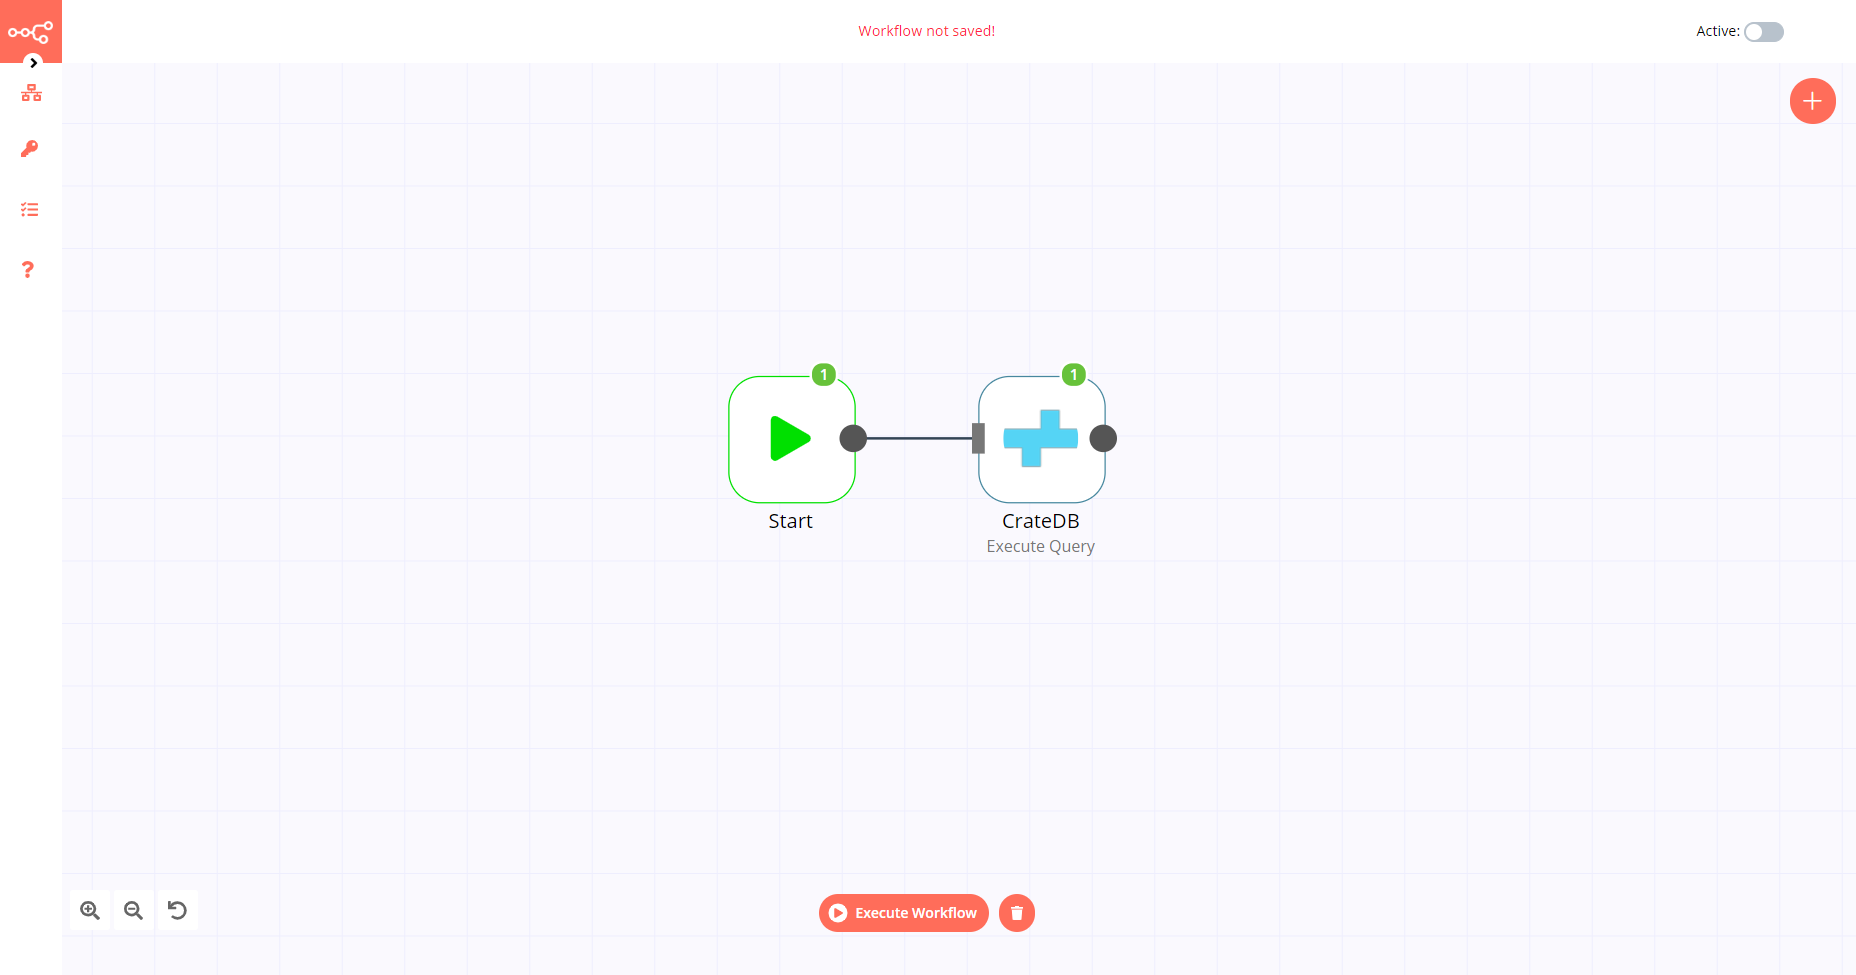
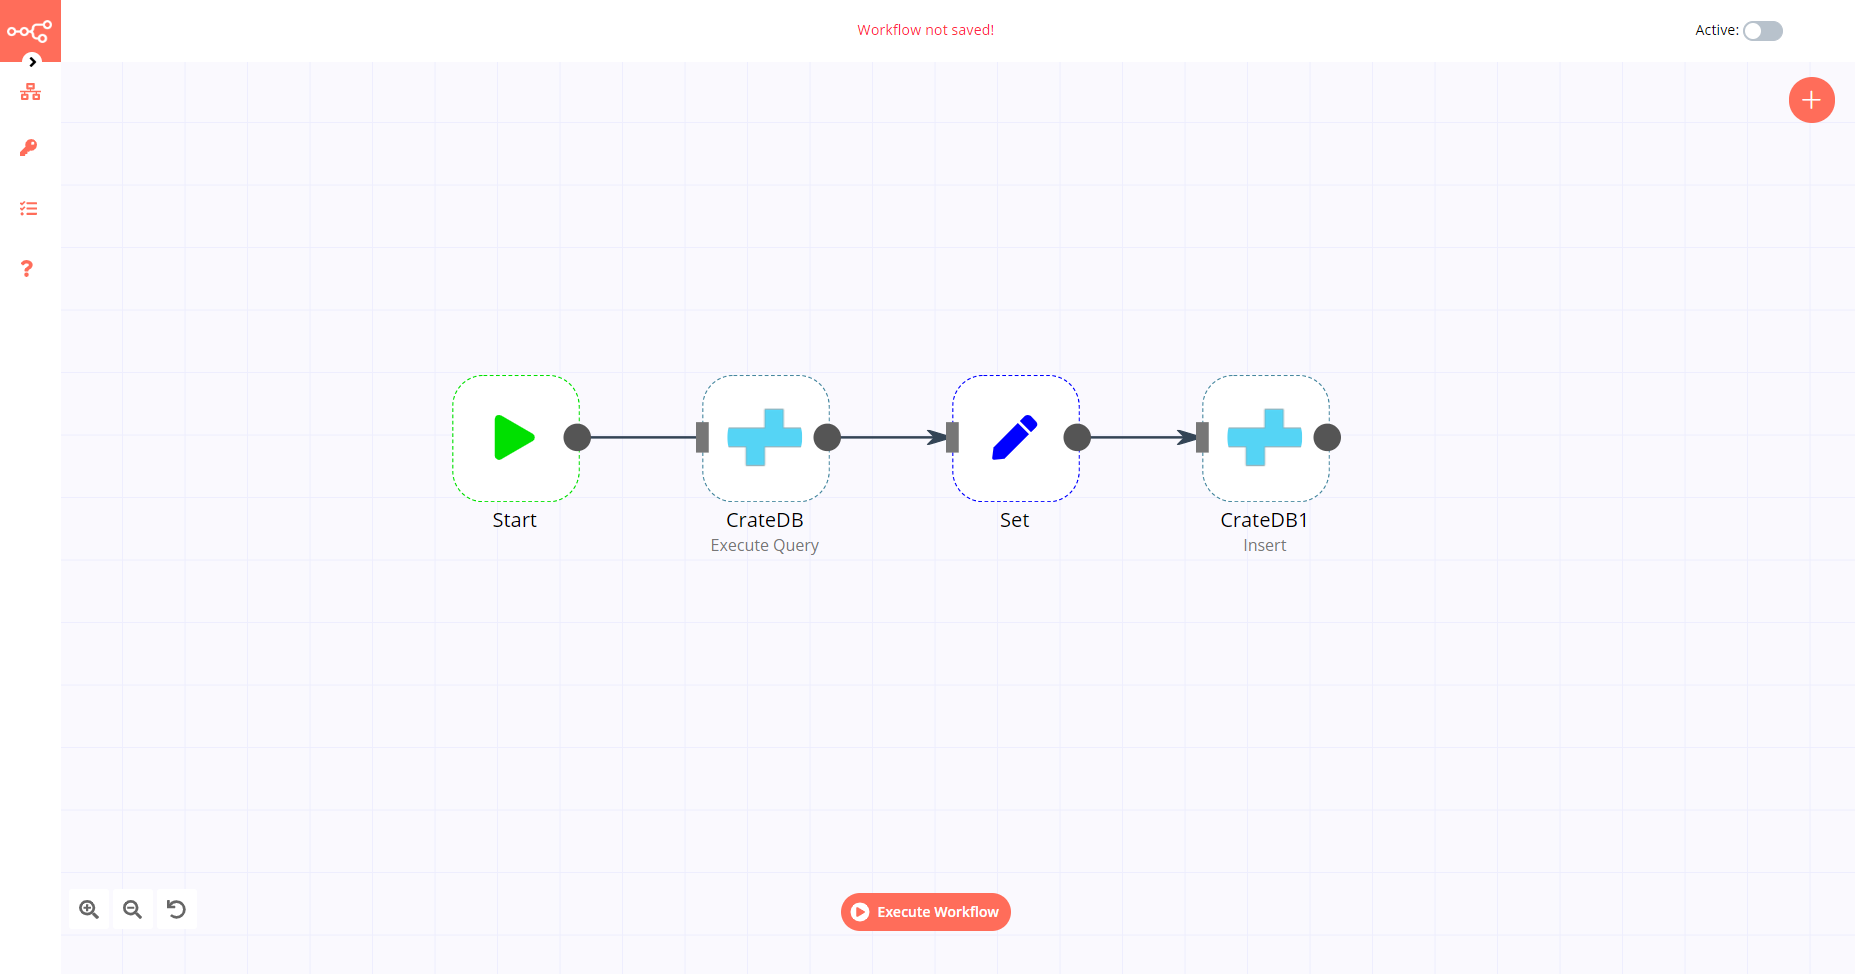
:zap: Enhanced CrateDB docs

diff --git a/docs/reference/changelog.md b/docs/reference/changelog.md
@@ -2,8 +2,10 @@
 
 [[toc]]
 
-## n8n@0.76.0
-For a comprehensive list of changes, check out the [commits](https://github.com/n8n-io/n8n/compare/n8n@0.75.0...n8n@0.76.0) for this version.
+## n8n@0.76.0 
+For a comprehensive list of changes, check out the [commits](https://github.com/n8n-io/n8n/compare/n8n@0.75.0...n8n@0.76.0) for this version.<br />
+**Release date:** 2020-08-05
+
 
 - New nodes
     - Customer.io Trigger
@@ -18,7 +20,8 @@ For a comprehensive list of changes, check out the [commits](https://github.com/
 - Nodes will now display a link to associated documentation
 
 ## n8n@0.75.0
-For a comprehensive list of changes, check out the [commits](https://github.com/n8n-io/n8n/compare/n8n@0.74.0...n8n@0.75.0) for this version.
+For a comprehensive list of changes, check out the [commits](https://github.com/n8n-io/n8n/compare/n8n@0.74.0...n8n@0.75.0) for this version.<br />
+**Release date:** 2020-07-26
 
 - New nodes
     - Box
@@ -33,7 +36,8 @@ For a comprehensive list of changes, check out the [commits](https://github.com/
 - Webhooks now support OPTIONS request
 
 ## n8n@0.74.0
-For a comprehensive list of changes, check out the [commits](https://github.com/n8n-io/n8n/compare/n8n@0.73.1...n8n@0.74.0) for this version.
+For a comprehensive list of changes, check out the [commits](https://github.com/n8n-io/n8n/compare/n8n@0.73.1...n8n@0.74.0) for this version.<br />
+**Release date:** 2020-07-15
 
 - New nodes
     - Hacker News
@@ -52,14 +56,16 @@ For a comprehensive list of changes, check out the [commits](https://github.com/
 
 
 ## n8n@0.73.1
-For a comprehensive list of changes, check out the [commits](https://github.com/n8n-io/n8n/compare/n8n@0.73.0...n8n@0.73.1) for this version.
+For a comprehensive list of changes, check out the [commits](https://github.com/n8n-io/n8n/compare/n8n@0.73.0...n8n@0.73.1) for this version.<br />
+**Release date:** 2020-07-08
 
 - Enhanced nodes
     - Microsoft SQL
 
 
 ## n8n@0.73.0
-For a comprehensive list of changes, check out the [commits](https://github.com/n8n-io/n8n/compare/n8n@0.72.0...n8n@0.73.0) for this version.
+For a comprehensive list of changes, check out the [commits](https://github.com/n8n-io/n8n/compare/n8n@0.72.0...n8n@0.73.0) for this version.<br />
+**Release date:** 2020-07-08
 
 - New nodes
     - CircleCI
@@ -72,7 +78,8 @@ For a comprehensive list of changes, check out the [commits](https://github.com/
 
 
 ## n8n@0.72.0
-For a comprehensive list of changes, check out the [commits](https://github.com/n8n-io/n8n/compare/n8n@0.71.0...n8n@0.72.0) for this version.
+For a comprehensive list of changes, check out the [commits](https://github.com/n8n-io/n8n/compare/n8n@0.71.0...n8n@0.72.0) for this version.<br />
+**Release date:** 2020-07-02
 
 - Enhanced nodes
     - Drift
@@ -83,7 +90,8 @@ For a comprehensive list of changes, check out the [commits](https://github.com/
 
 
 ## n8n@0.71.0
-For a comprehensive list of changes, check out the [commits](https://github.com/n8n-io/n8n/compare/n8n@0.70.0...n8n@0.71.0) for this version.
+For a comprehensive list of changes, check out the [commits](https://github.com/n8n-io/n8n/compare/n8n@0.70.0...n8n@0.71.0) for this version.<br />
+**Release date:** 2020-06-25
 
 - New nodes
     - Google Tasks
@@ -100,7 +108,8 @@ For a comprehensive list of changes, check out the [commits](https://github.com/
 
 
 ## n8n@0.70.0
-For a comprehensive list of changes, check out the [commits](https://github.com/n8n-io/n8n/compare/n8n@0.69.1...n8n@0.70.0) for this version.
+For a comprehensive list of changes, check out the [commits](https://github.com/n8n-io/n8n/compare/n8n@0.69.1...n8n@0.70.0) for this version.<br />
+**Release date:** 2020-06-13
 
 - Enhanced nodes
     - GitHub

diff --git a/docs/nodes/nodes-library/nodes/CrateDB/README.md b/docs/nodes/nodes-library/nodes/CrateDB/README.md
@@ -8,7 +8,7 @@ permalink: /nodes/n8n-nodes-base.crateDb
 
 ::: tip 🔑 Credentials
 You can find authentication information for this node [here](../../../credentials/CrateDB/README.md).
-:::
+:::	
 
 ## Basic Operations
 
@@ -19,8 +19,9 @@ You can find authentication information for this node [here](../../../credential
 
 ## Example Usage
 
-This workflow allows you to execute an SQL query in CrateDB. You can also find the [workflow](https://n8n.io/workflows/568) on the website. This example usage workflow would use the following two nodes.
+This workflow allows you to create a table and insert data into it in CrateDB. You can also find the [workflow](https://n8n.io/workflows/597) on the website. This example usage workflow would use the following three nodes.
 - [Start](../../core-nodes/Start/README.md)
+- [Set](../../core-nodes/Set/README.md)
 - [CrateDB]()
 
 The final workflow should look like the following image.
@@ -31,9 +32,31 @@ The final workflow should look like the following image.
 
 The start node exists by default when you create a new workflow.
 
-### 2. CrateDB node
+### 2. CrateDB node (Execute Query)
 
 1. First of all, you'll have to enter credentials for the CrateDB node. You can find out how to do that [here](../../../credentials/CrateDB/README.md).
-2. Select 'Execute Query' from the *Operation* dropdown list.
-3. Enter your SQL query in the *Query* field.
-4. Click on *Execute Node* to run the workflow.
+2. Select 'Execute Query' from the ***Operation*** dropdown list.
+3. Enter the following SQL query in the ***Query*** field: `CREATE TABLE test (id INT, name STRING);`.
+5. Click on ***Execute Node*** to run the node.
+
+![Using the CreateDB node to create a table](./step2.png)
+
+### 3. Set node
+
+1. Click on the ***Add Value*** button and select 'Number' from the dropdown list.
+2. Enter `id` in the ***Name*** field.
+3. Click on the ***Add Value*** button and select 'String' from the dropdown list.
+4. Enter `name` in the ***Name*** field.
+5. Enter the value for the name in the ***Value*** field.
+6. Click on ***Execute Node*** to run the node.
+
+![Using the Set node to set data to be inserted by the CrateDB node](./step3.png)
+
+### 4. CrateDB node (Insert)
+
+1. Select the credentials that you entered in the previous CrateDB node.
+2. Enter `test` in the ***Table*** field.
+3. Enter `id, name` in the ***Columns*** field.
+4. Click on ***Execute Node*** to run the node.
+
+![Using the CrateDB node to insert data into a table](./step4.png)

diff --git a/docs/nodes/credentials/Medium/README.md b/docs/nodes/credentials/Medium/README.md
@@ -1,0 +1,40 @@
+# Medium
+
+You can find information about the operations supported by the Medium node on the [integrations](https://n8n.io/integrations/n8n-nodes-base.medium) page. You can also browse the source code of the node on [GitHub](https://github.com/n8n-io/n8n/tree/master/packages/nodes-base/nodes/Medium).
+
+## Prerequisites
+
+- Create an account on [Medium](https://www.medium.com/).
+- Request access to credentials by emailing [yourfriends@medium.com](mailto:yourfriends@medium.com).
+
+
+## Using OAuth
+
+1. Log in to your Medium account.
+2. Click on the avatar on the top right corner.
+3. Select '[Settings](https://medium.com/me/settings)' in the drop-down menu.
+4. Select 'Developers' from the menu on the left.
+5. Click on the 'Manage applications' button.
+6. Click on the 'New application' button.
+7. Give your application a Name, and provide a Description.
+8. Select the 'OAuth 2' option from the *Authorization Protocol* dropdown list.
+9. Copy the 'OAuth Callback URL' provided in the Medium OAuth2 API credentials in n8n and paste it in the 'Callback URLs' field in the Medium application page.
+10. Click on 'Save' to generate the credentials.
+11. Copy and paste ***Client ID*** and ***Client Secret*** in the Medium OAuth2 API credentials in n8n.
+12. Click on the circle button in the OAuth section to connect a Medium account to n8n.
+13. Click the ***Save*** button to save your credentials in n8n.
+
+![Getting Medium OAuth credentials](./using-oauth.gif)
+
+## Using Access Token
+
+1. Log in to your Medium account.
+2. Click on the avatar on the top right corner.
+3. Select '[Settings](https://medium.com/me/settings)' in the drop-down menu.
+4. Select 'Integration tokens' from the menu on the left.
+5. Enter a description for your token in the field.
+6. Click on the 'Get integration token' button.
+7. Copy and paste ***Token*** in the Medium API credentials in n8n.
+8. Click the ***Save*** button to save your credentials in n8n.
+
+![Getting Medium Access Token](./using-access-token.gif)

diff --git a/docs/nodes/nodes-library/nodes/Medium/README.md b/docs/nodes/nodes-library/nodes/Medium/README.md
@@ -1,0 +1,44 @@
+---
+permalink: /nodes/n8n-nodes-base.medium
+---
+
+# Medium
+
+[Medium](https://www.medium.com/) is an online publishing platform and home to a diverse array of stories, ideas, and perspectives. It empowers writers to share their work and ideas with the readers.
+
+::: tip 🔑 Credentials
+You can find authentication information for this node [here](../../../credentials/Medium/README.md).
+:::
+
+## Basic Operations
+
+- Post
+	- Create a post
+- Publication
+	- Get all publications
+
+
+## Example Usage
+
+This workflow allows you to post an article to a publication on Medium. You can also find the [workflow](https://n8n.io/workflows/594) on the website. This example usage workflow uses the following two nodes.
+
+- [Start](../../core-nodes/Start/README.md)
+- [Medium]()
+
+The final workflow should look like the following image.
+
+![A workflow with the Medium node](./workflow.png)
+
+### 1. Start node
+
+The start node exists by default when you create a new workflow.
+
+### 2. Medium node
+
+1. First of all, you'll have to enter credentials for the Medium node. You can find out how to do that [here](../../../credentials/Medium/README.md).
+2. Toggle ***Publication*** to true.
+3. Select the publication from the ***Publication ID*** dropdown list.
+4. Enter the title in the ***Title*** field.
+5. Select the format from the ***Content Format*** dropdown list.
+6. Enter conent of the post in the ***Content*** field.
+7. Click on ***Execute Node*** to run the workflow.
